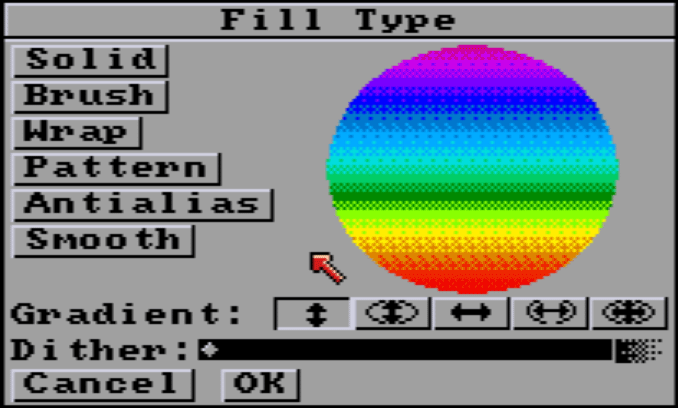
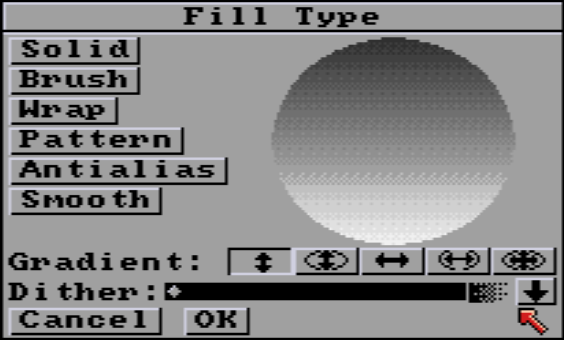
Fill type updated
Doc fill.md and pic updated with fill orientation arrow.

diff --git a/docs/tools/src/fill.md b/docs/tools/src/fill.md
@@ -1,21 +1,28 @@
 # Fill Type
 
-- [Solid](#solid)
-- [Brush](#brush)
-- [Wrap](#wrap)
-- [Pattern](#pattern)
-- [Antialias](#antialias--smooth)
-- [Smooth](#antialias--smooth)
-- [Gradient](#gradient)
-- [Dithering](#dither)
+- [Fill Type](#fill-type)
+  - [Solid](#solid)
+  - [Brush](#brush)
+  - [Wrap](#wrap)
+  - [Pattern](#pattern)
+  - [AntiAlias \& Smooth](#antialias--smooth)
+  - [Gradient](#gradient)
+  - [Dither](#dither)
+    - [Ordered dithering](#ordered-dithering)
+    - [No dithering](#no-dithering)
+    - [1 to 20 dithering](#1-to-20-dithering)
+          - [Documentation written by Stephane Anquetil](#documentation-written-by-stephane-anquetil)
 
 Right-clicking the **Fill tool** <img src="t-fill.png" width="32"> or the lower-right half of most drawing tools displays this **Fill Type** requester: 
 
 <img src="fill-type.png" width="500">
 
 The options in the requester are explained in the following paragraphs.
-When you return to the painting screen after choosing a fill
-type, the current gradient (or pattern, if **Pattern** is selected) and its orientation are shown in the Color Fill box in the menu bar:
+When you return to the painting screen after choosing a fill type :
+- the current **Gradient** and its orientation,
+- current brush fill, if **Pattern** or **Wrap** are selected
+- **AntiAlias** or **Smooth** (**AA** or **SM**) type if choosen
+are shown in the Color Fill box in the menu bar:
 
 | ![](fill-status.png) |
 | :----: |
@@ -32,7 +39,7 @@ type, the current gradient (or pattern, if **Pattern** is selected) and its orie
 
 | <img src="fill-brush-ex.png" width="500"> |
 | :----: |
-| *The current defined brush is on the left. Examples of fills in a variety of shapes, from rectangles on the left, to polygons on the right, to circles and inclined ellipses.* |
+| *Three examples of defined brush are on the very left : checkerboard, vertical lines, A letter. Examples of fills in a variety of shapes, from rectangles on the left, to polygons on the right, to circles and inclined ellipses.* |
 
 ## Wrap
 **Wrap** fills with the current custom brush and adjusts it to the horizontal and vertical shape of the filled area. This gives the illusion of wrapping the brush around a 3D solid. The effect is most pronounced if you use it to fill a shape that is very different from the shape of the custom brush.
@@ -44,7 +51,7 @@ type, the current gradient (or pattern, if **Pattern** is selected) and its orie
 
 | <img src="brush-warp-pattern-fill.jpg" width="600"> |
 | :----: |
-| ***Brush*** *respects the original image of the brush.* ***Warp*** *gives interesting effects on rounded shapes. There are no predefined rules: it's up to you to experiment!* |
+| ***Brush*** *respects the original image of the brush.* ***Warp*** *gives interesting effects on rounded shapes. There are no predefined rules: it's up to you to experiment! You can try yourself loading this example file in: `iff_pics/fill-wrap-comp-ex.iff`* |
 
 ## AntiAlias & Smooth
 
@@ -63,15 +70,15 @@ If you're smoothing red on a black background, but no dark red/brown color is av
 
 ## Gradient
 
-**Gradient** Fills offer a host of creative uses. Their rendering will depend as much on the colors range chosen in the palette, the shapes drawn, as on the options selected here.
+**Gradient** Fills offer a host of creative uses. Their rendering will depend as much on the colors range chosen in the [palette](../../menus/src/palette.md), the shapes drawn, as on the options selected here.
 
 | ![](fill-ex.png) |
 | :----: |
 | *Examples with a suite of 6 colors (3 bright yellow, cyan, blue and 3 white), a 7-color orange gradient and the default grayscale (12 colors).* |
 
-**Remember to select one of the [Range](../../menus/src/palette.md#range) colors as foreground color to select your gradient and get this type of preview.**
+**Remember to select one of the [Range](../../menus/src/palette.md#range) colors as foreground color to select your gradient and get this type of preview. IE: any grey or the yellow in default screen.**
 
-Select one of the gradient options by clicking it with the left mouse button. Preview will update automatically.
+Select one of the gradient options by clicking it with the left mouse button. Preview will update automatically. 
 
 <img src="gradient-fill-v.png" width="500">
 
@@ -94,6 +101,9 @@ Select one of the gradient options by clicking it with the left mouse button. Pr
 **Vertical and Horizontal** fill paints the gradient from the inside out adjusting the gradient so that it follows the contours of the shape being filled.
 
 *The preview uses the shape of a circle, but remember that the fill tools can fill the whole screen and any type of shape.*
+**New in PydPainter 2.1.0**: right to the Dither bar, there is an new black arrow that toggles the gradient orientation.
+<img src="fill-orientation.png" width="500">
+This orientation is first defined by the color order in the **Palette** (`P`). It can now be reversed with a click directly from here.
 
 ## Dither
 
@@ -125,6 +135,6 @@ Dither at 8. More of a mixture, it can be used as a base for coloring rocks or p
 
 <img src="Dithering-20.png" width="500">
 
-Max dithering (20). The gradient is barely recognizable. Can be used as a base before using other drawing modes such as Smooth or Blend.
+Max dithering (20). The gradient is barely recognizable. Can be used as a noise base before using other drawing modes such as Smooth or Blend.
 
 ###### Documentation written by Stephane Anquetil
